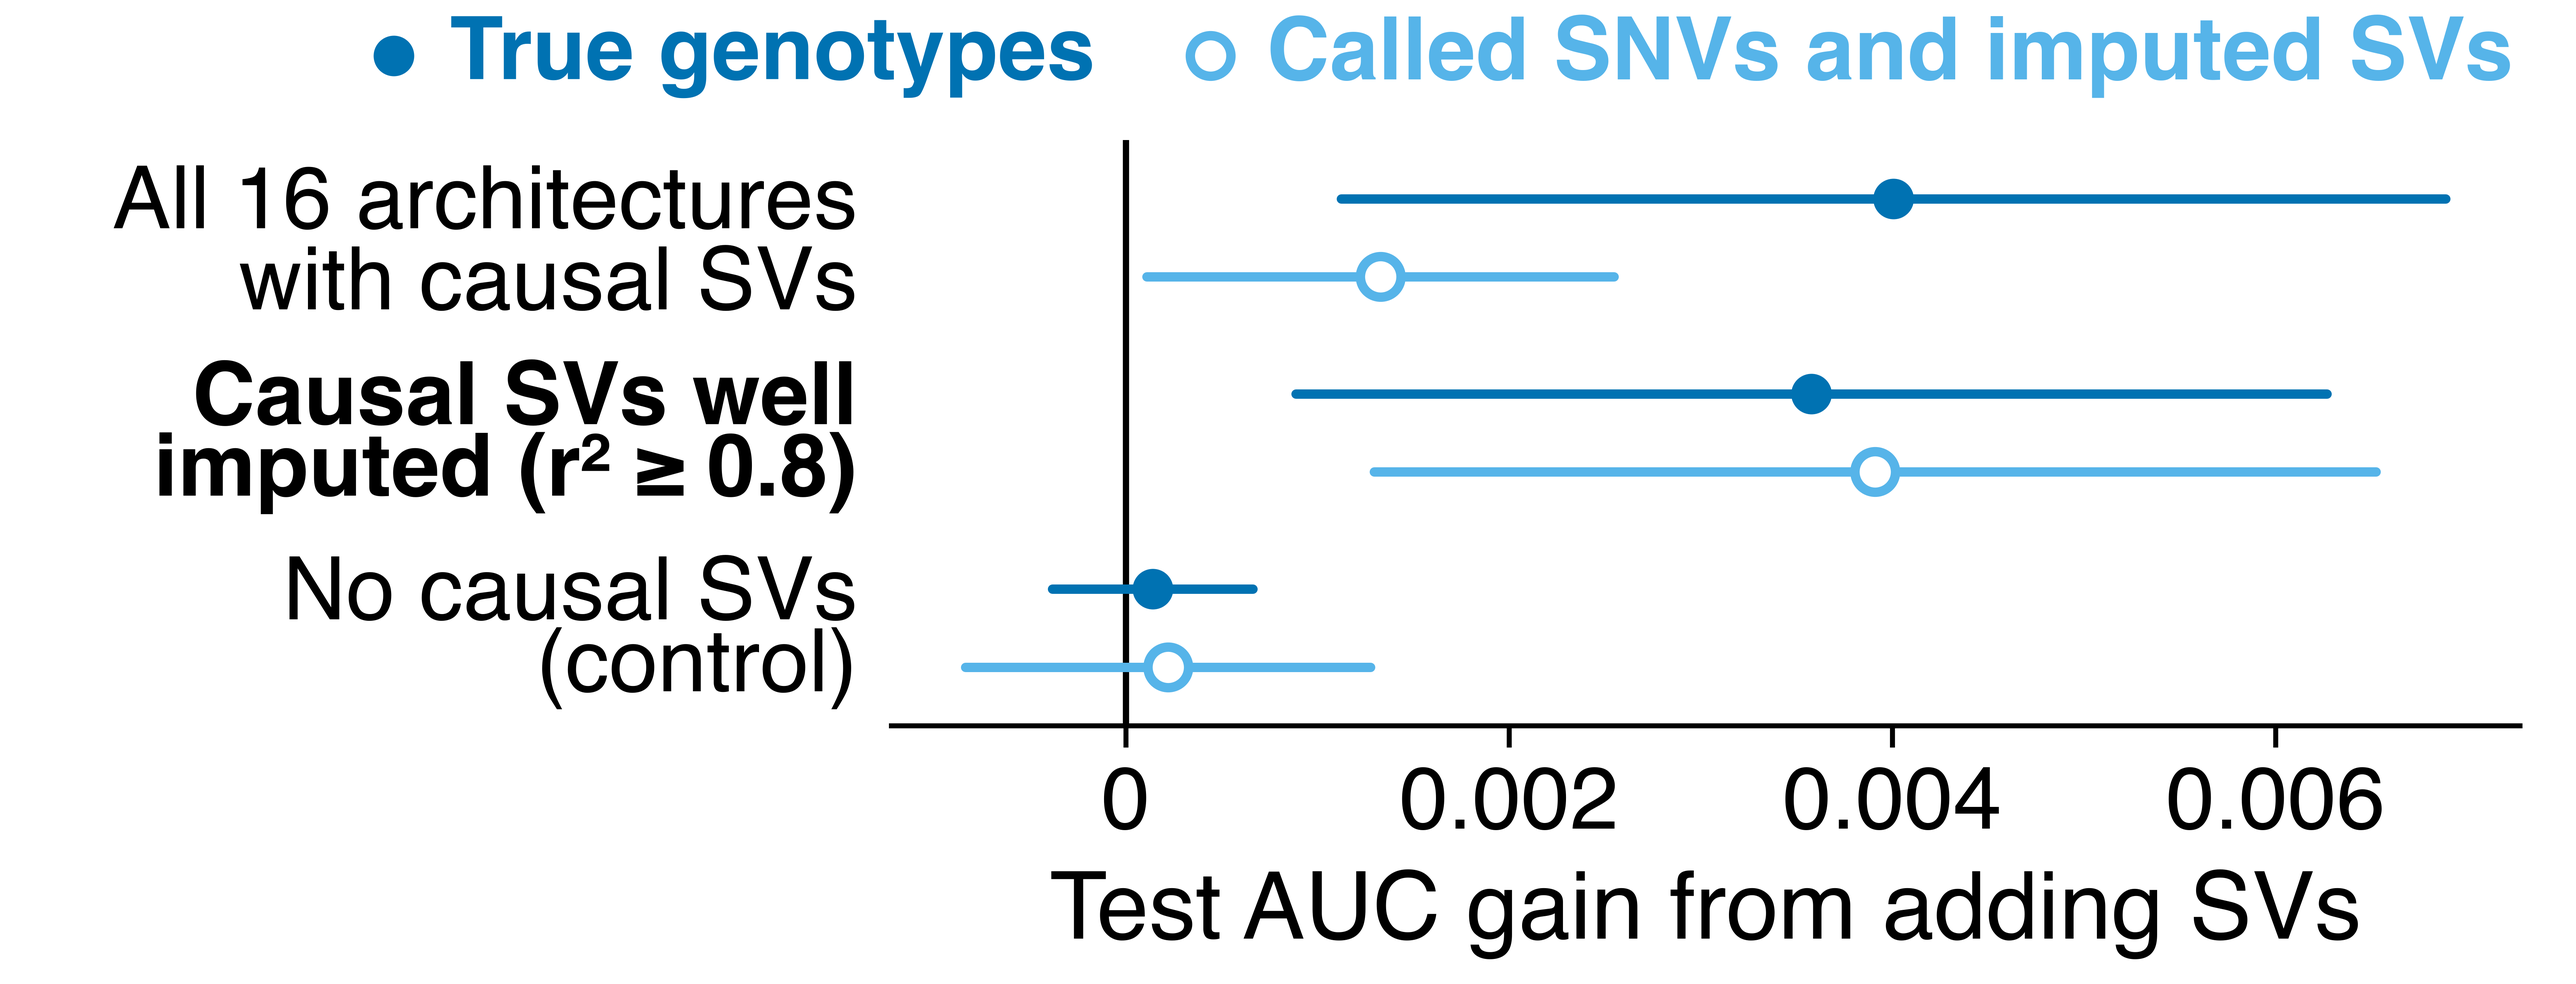
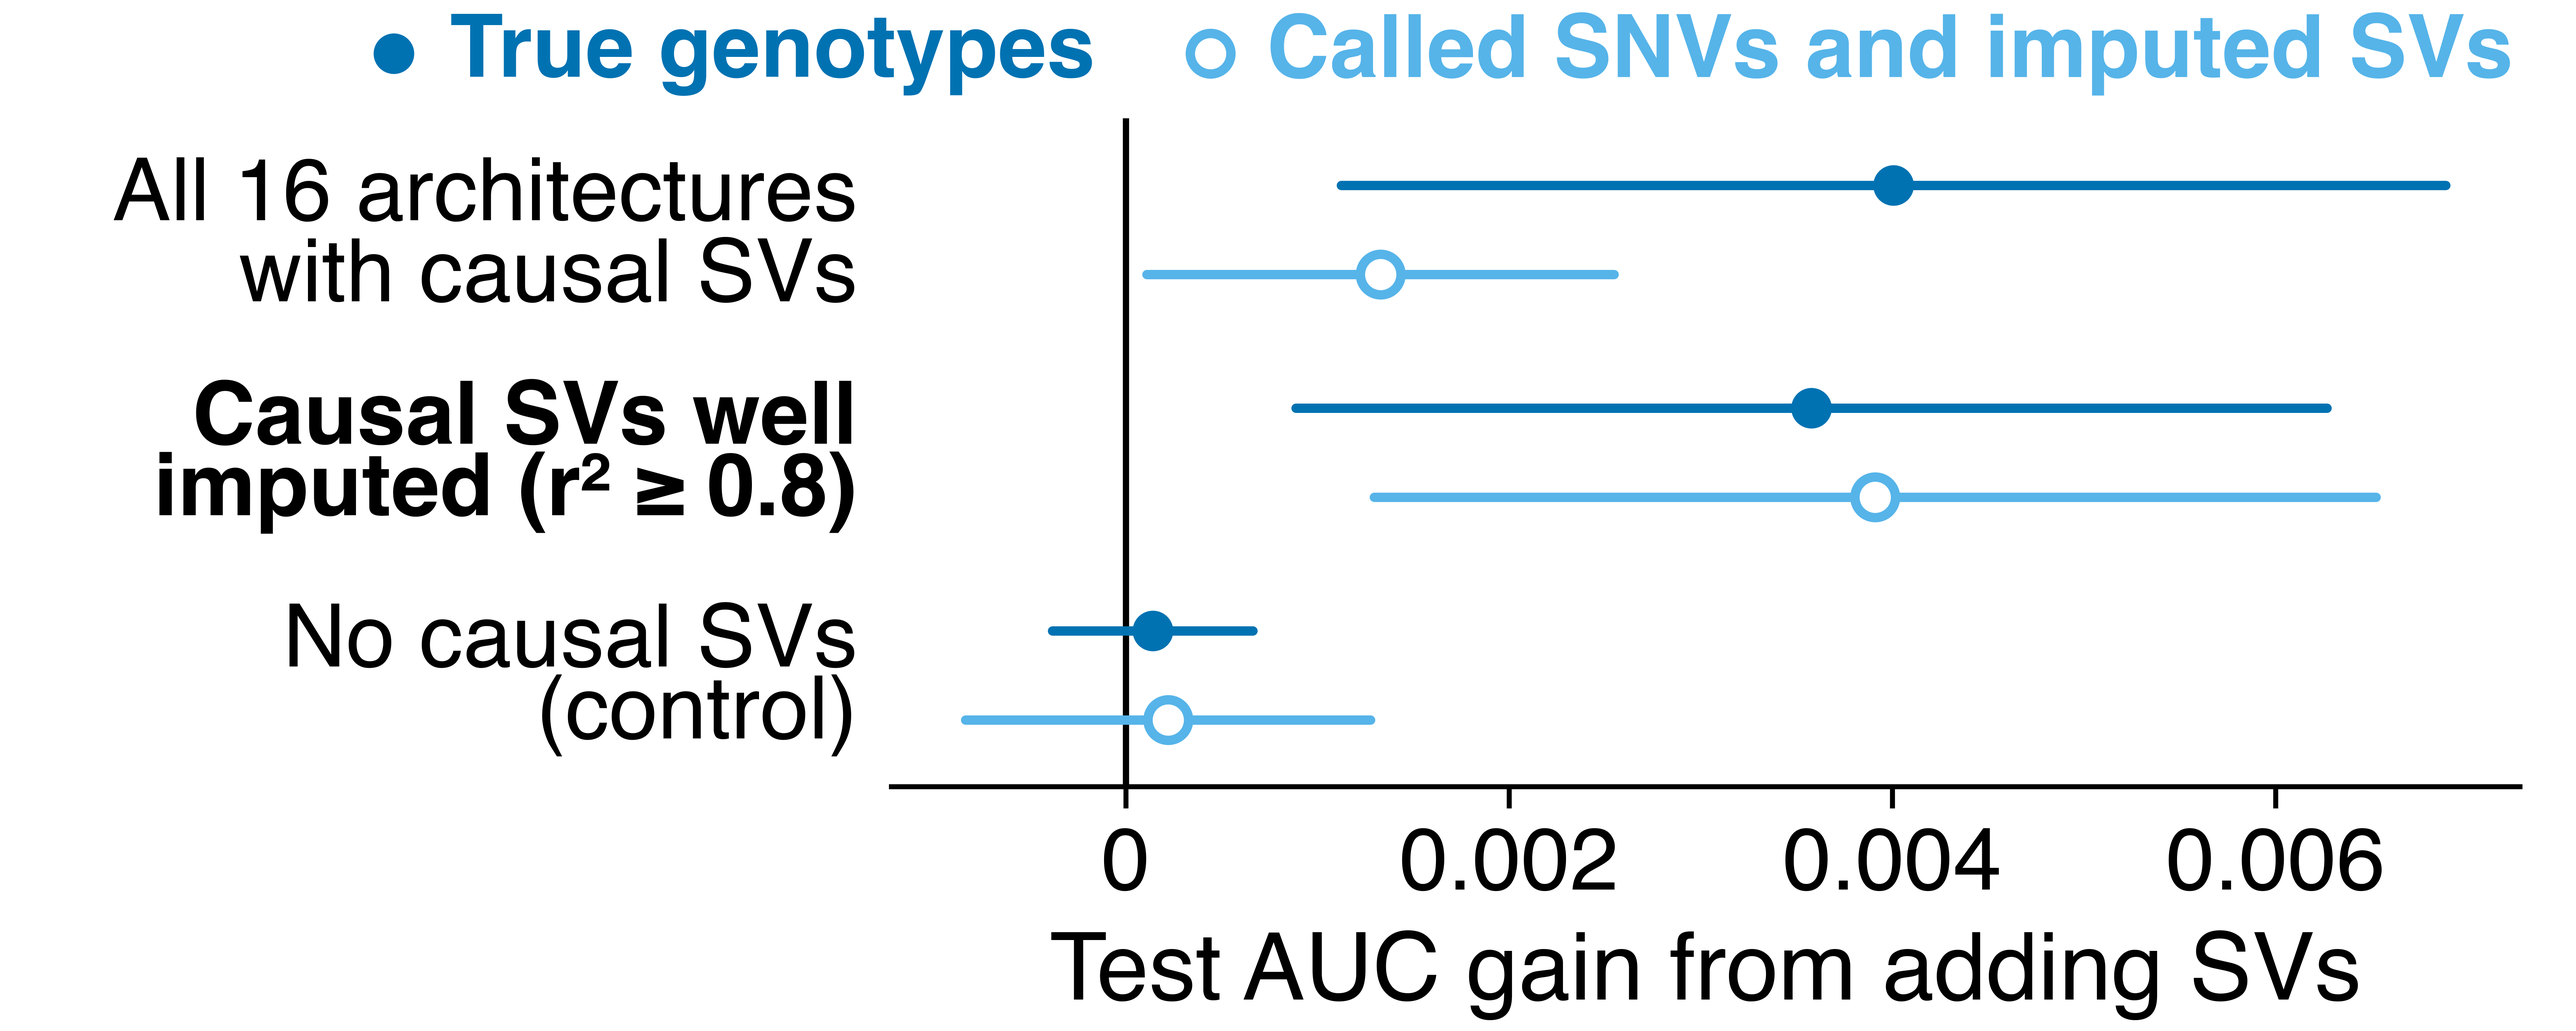
The SV-gain forest fills the foot of the poster's middle column, and the References bar sits a block's gap under its axis title (docs/poster/ashg2026/sim_gallery.py, build_pptx.py).
The user saw white space at the foot of the middle column. The forest is 9.18 in tall instead of 8.76, set by POSTER_GAIN_HEIGHT, so the column ends 0.02 in above its bottom margin. Its bottom margin is now measured from the ticks, tick labels and axis title (under_axes) instead of a fixed 2.3 in. Its key band is the sources' names plus a pad over and under them instead of a fixed 1.0 in, and its top margin is POSTER_PAD instead of 0.25 in. The height freed by these goes to the rows' pitch. The References bar follows the forest with the 0.2 in gap between blocks instead of a section break. No text or number changes, and the forest's type is unchanged, since no height is left to enlarge it. Tests (laptop): test_poster_figures and test_poster_simulation, 13 passed.

diff --git a/docs/poster/ashg2026/sim_gallery.py b/docs/poster/ashg2026/sim_gallery.py
@@ -991,6 +991,9 @@ sv_min_realized_r2)."""
 POSTER_GAIN, POSTER_GENOTYPES = 22.92, 11.4
 """Inches: the widths of the SV gain forest (the poster's middle column, build_pptx.py's MIDDLE) and the imputation
 figure (the left column, LEFT), each placed at its column's full width."""
+POSTER_GAIN_HEIGHT = 9.18
+"""Inches: the SV gain forest's height, which fills the middle column from the training-size figures to the References
+at its foot (build_pptx.py's layout leaves 0.02 in to spare)."""
 FOREST_SIZES = SIZES[:3]
 """The training sizes the SV gain forest averages over, 5,000 to 20,000. Both genotype sources reached 40,000 in one
 simulation only, a control one, and the gain grows with training size: with it, the control's gain with imputed SVs
@@ -1035,9 +1038,12 @@ def poster_sv_gain_figure(grids):
                  for key, row in sets.items()},
     }
     rows = list(sets.values())
-    pitch, key, top, bottom, right = 1.7375, 1.0, 0.25, 2.3, 0.5
-    height = key + top + bottom + pitch * len(rows)
+    # the rows share the height left under the key band, which holds the sources' names and a pad over and under
+    # them, and over the measured x axis
+    top, right, height = POSTER_PAD, 0.5, POSTER_GAIN_HEIGHT
     fig = plt.figure(figsize=(POSTER_GAIN, height))
+    key = tallest(fig, [label for label, _, _ in SOURCES], fontsize=POSTER_TYPE, fontweight="bold") + 2 * POSTER_PAD
+    bottom = under_axes(fig, ["Test AUC gain from adding SVs"])
     left = widest(fig, [row["label"] for row in rows], fontsize=POSTER_TYPE, fontweight="bold", linespacing=1.0) + 0.75
     ax = frame(fig, left, bottom, POSTER_GAIN - left - right, height - key - top - bottom)
     ends = [row[source][end] for row in rows for source in ("true", "imputed") for end in ("lower", "upper")

diff --git a/docs/poster/ashg2026/build_pptx.py b/docs/poster/ashg2026/build_pptx.py
@@ -644,7 +644,8 @@ def build() -> None:
                 [figure(gallery["poster_wins"], legend=GALLERY / "fig2_gain_over_ldpred2.txt")]),
             Block("text", [Para([(words["gain_note"], "")], bullet=False, after=0)], gap="section"),
             figure(gallery["poster_sv_gain"]),
-            bar(96, "References"), row([text(references[:half])], [text(references[half:])]),
+            # the References bar a block's gap under the forest's axis title, so the forest takes the height
+            Block("bar", (96, "References"), gap="block"), row([text(references[:half])], [text(references[half:])]),
         ],
         [
             bar(119, "All of Us"), text(bullets(words["aou"])), *aou_blocks(),
